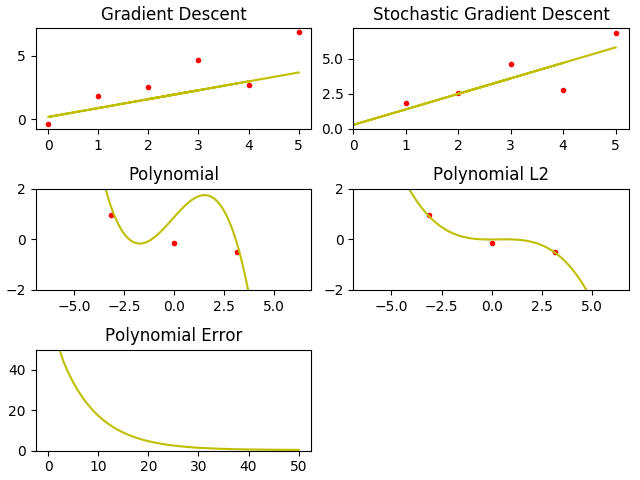
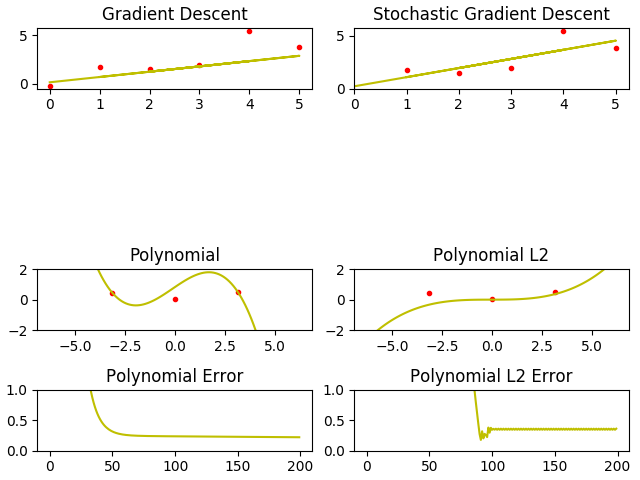
plynomial L2 use composition of functions + error func

diff --git a/src/__init__.py b/src/__init__.py
@@ -272,16 +272,8 @@ sin_x_plot = np.arange(-pi*2, pi*2, 0.1)
 poly_dataset = list(zip(sin_x_independent, sin_y_dependent))
 poly_datapoints = [Point(*x) for x in poly_dataset]
 
-# P4 = generic_gradient_descent(point=Point4(1,1,1,1),
-#                               learning_rate=0.001,
-#                               error_treshold=0.000001,
-#                               max_iterations=10000,
-#                               datapoints=poly_datapoints,
-#                               gradient_func=gradient_of_least_squers_polynomial,
-#                               error_func=least_squere_error_polynomial)
-#
 
-pipeline = max_iterations(learning(gd(
+pipeline_p1 = max_iterations(learning(gd(
     point=Point4(1, 1, 1, 1),
     gradient_func=gradient_descent_step(
         learning_rate=0.001,
@@ -292,24 +284,33 @@ pipeline = max_iterations(learning(gd(
     error_func=least_squere_error_polynomial(
         datapoints=poly_datapoints
     )
-), error_treshold=0.01), max=100)
+), error_treshold=0.00001), max=200)
 
-pipeline = list(pipeline)
+pipeline_p1 = list(pipeline_p1)
 
-P4 = pipeline[-1].point
+P4 = pipeline_p1[-1].point
 
 print("P4 gradient descent polynomial =", P4)
 Y_hat_poly_datapoints_1 = list(map(lambda x: (x, Y_hat_poly(x, P4)), sin_x_plot))
 
-P5 = generic_gradient_descent(point=Point4(1, 1, 1, 1),
-                              learning_rate=0.001,
-                              error_treshold=0.000001,
-                              max_iterations=10000,
-                              datapoints=poly_datapoints,
-                              gradient_func=gradient_of_least_squers_polynomial_with_l2(
-                                  bias_coefficient=0.2),
-                              error_func=least_squere_error_polynomial_with_l2(
-                                  bias_coefficient=0.2))
+pipeline_p2 = max_iterations(learning(gd(
+    point=Point4(1, 1, 1, 1),
+    gradient_func=gradient_descent_step(
+        learning_rate=0.001,
+        df=gradient_of_least_squers_polynomial_with_l2(
+            bias_coefficient=14.2,
+            datapoints=poly_datapoints
+        )
+    ),
+    error_func=least_squere_error_polynomial_with_l2(
+        bias_coefficient=14.2,
+        datapoints=poly_datapoints
+    )
+), error_treshold=0.00001), max=200)
+
+pipeline_p2 = list(pipeline_p2)
+
+P5 = pipeline_p2[-1].point
 
 print("P5 gradient descent polynomial L2 =", P5)
 Y_hat_poly_datapoints_2 = list(map(lambda x: (x, Y_hat_poly(x, P5)), sin_x_plot))
@@ -324,36 +325,41 @@ def to_x_y(dataset):
 
 
 "Plot batch gradient descent"
-plt.subplot(3, 2, 1)
+plt.subplot(4, 2, 1)
 plt.title("Gradient Descent")
 plt.plot(*to_x_y(dataset), 'r.')
 plt.plot(*to_x_y(Y_hat_datapoints), 'y')
 
 "Plot stochastic gradient descent"
-plt.subplot(3, 2, 2)
+plt.subplot(4, 2, 2)
 plt.title("Stochastic Gradient Descent")
 plt.plot(*to_x_y(dataset), 'r.')
 plt.plot(*to_x_y(Y_hat_datapoints_b), 'y')
 plt.axis(xmin=0, ymin=0)
 
 "Plot sinusoid data polynomial"
-plt.subplot(3, 2, 3)
+plt.subplot(4, 2, 5)
 plt.title("Polynomial")
 plt.ylim((-2, 2))
 plt.plot(*to_x_y(poly_dataset), 'r.')
 plt.plot(*to_x_y(Y_hat_poly_datapoints_1), 'y')
 
-plt.subplot(3, 2, 5)
+plt.subplot(4, 2, 7)
 plt.title("Polynomial Error")
-plt.ylim((0, 50))
-plt.plot([r.error for r in pipeline], 'y')
+plt.ylim((0, 1))
+plt.plot([r.error for r in pipeline_p1], 'y')
 
 "Plot sinusoid data polynomial L2"
-plt.subplot(3, 2, 4)
+plt.subplot(4, 2, 6)
 plt.title("Polynomial L2")
 plt.ylim((-2, 2))
 plt.plot(*to_x_y(poly_dataset), 'r.')
 plt.plot(*to_x_y(Y_hat_poly_datapoints_2), 'y')
 
+plt.subplot(4, 2, 8)
+plt.title("Polynomial L2 Error")
+plt.ylim((0, 1))
+plt.plot([r.error for r in pipeline_p2], 'y')
+
 plt.tight_layout(pad=0.4, w_pad=0.5, h_pad=1.0)
-plt.savefig('line.png')
+plt.savefig('line.png', dip=2.0)
